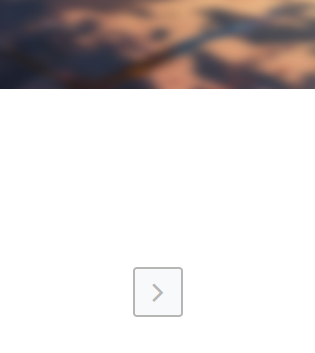
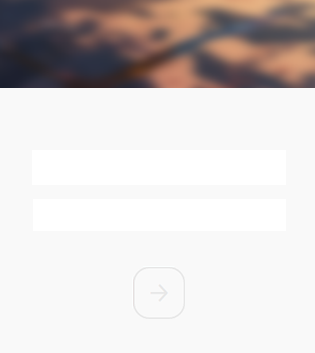
Ver - Dev.0.2.6(15)
- 没有功能更新
- 登陆界面按钮输入自动变色
- 登陆界面回车确认
- 工单读取

Changed region(s): [[0.4, 0.7479, 0.6, 0.9037]]

diff --git a/ScoreSystem_Java/src/SysUI/SysStudent.java b/ScoreSystem_Java/src/SysUI/SysStudent.java
@@ -91,8 +91,9 @@ public class SysStudent {
 			jbInfo.setBounds(0,55, 230,35);	   // 设置位置及大小
 			jbInfo.setFont(new Font ("Microsoft Yahei UI Light", Font.PLAIN, 15));
 			jbInfo.setHorizontalAlignment(SwingConstants.LEFT);
-			jbInfo.setBackground(Color.decode("#222222"));
-			jbInfo.setContentAreaFilled(false); 	 // 去除背景
+			jbInfo.setBackground(Color.decode("#4285f4"));
+			jbInfo.setForeground(Color.white);
+			jbInfo.setContentAreaFilled(true); 	 // 去除背景
 			jbInfo.setFocusPainted(false);			// 去除焦点框
 			jbInfo.setBorderPainted(false);			// 去除边框
 			jP.add(jbInfo);
@@ -278,7 +279,6 @@ public class SysStudent {
 			JList<String> listBoxTitle = new JList<String>(listModeTitle); 
 			 listBoxTitle.setBounds(294,146, 100,195);
 			 listBoxTitle.setFont(new Font ("Microsoft Yahei UI Light", Font.PLAIN, 15));
-			 listBoxTitle.setBackground(Color.decode("#EEEEEE"));
 			 listBoxTitle.setFocusable(false);			// 去除焦点框
 			jPInfo.add(listBoxTitle);
 			listBoxTitle.addListSelectionListener(new ListSelectionListener() {
@@ -290,7 +290,6 @@ public class SysStudent {
 			JList<String> listBoxThings = new JList<String>(listModeThings); 
 			 listBoxThings.setBounds(394,146, 150,195);
 			 listBoxThings.setFont(new Font ("Microsoft Yahei UI Light", Font.PLAIN, 15));
-			 listBoxThings.setBackground(Color.decode("#EEEEEE"));
 			 listBoxThings.setFocusable(false);			// 去除焦点框
 			jPInfo.add(listBoxThings);
 			listBoxThings.addListSelectionListener(new ListSelectionListener() {
@@ -570,13 +569,15 @@ public class SysStudent {
 		   			}
 		   		});
 			 
+			 int[] id = { 0 };
+			 
 			inpsubtitle.setText("请输入工单内容");
 			inpsubtitle.setFont(new Font ("Microsoft Yahei UI Light", Font.PLAIN, 14));
 			inpsubtitle.setBounds(28, 51, 525, 43);
 			jPTable.add(inpsubtitle);
 			
 			jbLogin.addActionListener(new ActionListener() {
-			@Override
+				@Override
 			public void actionPerformed(ActionEvent e) {
 				if(e.getSource()==jbLogin) {
 					SysClass.printLog("发送被按下！");
@@ -586,7 +587,8 @@ public class SysStudent {
 					}
 					else {
 						try {
-							DBUtil.runUpdate("INSERT INTO `test`.`back` (`uid`, `内容`, `状态`, `处理人`) VALUES (' " + SysClass.SysData.uid + " ', ' " + inTable.getText().trim() + " ', '0', '')", SysClass.SysData.mainurl + "test" + SysClass.SysData.mainurladd);
+							DBUtil.runUpdate("INSERT INTO `test`.`back` (`uid`,`id`, `内容`, `状态`, `处理人`) VALUES (' " + SysClass.SysData.uid + " ', '"+ (id[0]+1) +" ', ' " + inTable.getText().trim() + " ', '0', '')", SysClass.SysData.mainurl + "test" + SysClass.SysData.mainurladd);
+							id[0] += 1;
 							listTbThings.addElement(inTable.getText().trim());
 							listTbWho.addElement(" ");
 							listTbSt.addElement("未处理");
@@ -606,6 +608,7 @@ public class SysStudent {
 				ResultSet rs = stmt.executeQuery("SELECT * FROM Back");
 				SysClass.printLog("正在初始化工单信息……");
 				while(rs.next()) {
+					id[0] = rs.getInt("id");
 					int uid = rs.getInt("uid");
 					String things = rs.getString("内容");
 					int stat = rs.getInt("状态");

diff --git a/ScoreSystem_Java/src/Features/SysClass.java b/ScoreSystem_Java/src/Features/SysClass.java
@@ -7,7 +7,7 @@ import java.util.Date;
 public class SysClass {
 	
 	public static class SysData {
-		public static String version = "Ver - Dev.0.2.5";
+		public static String version = "Ver - Dev.0.2.6(15)";
 
 		public static int uid ;
 		public static String uname;
